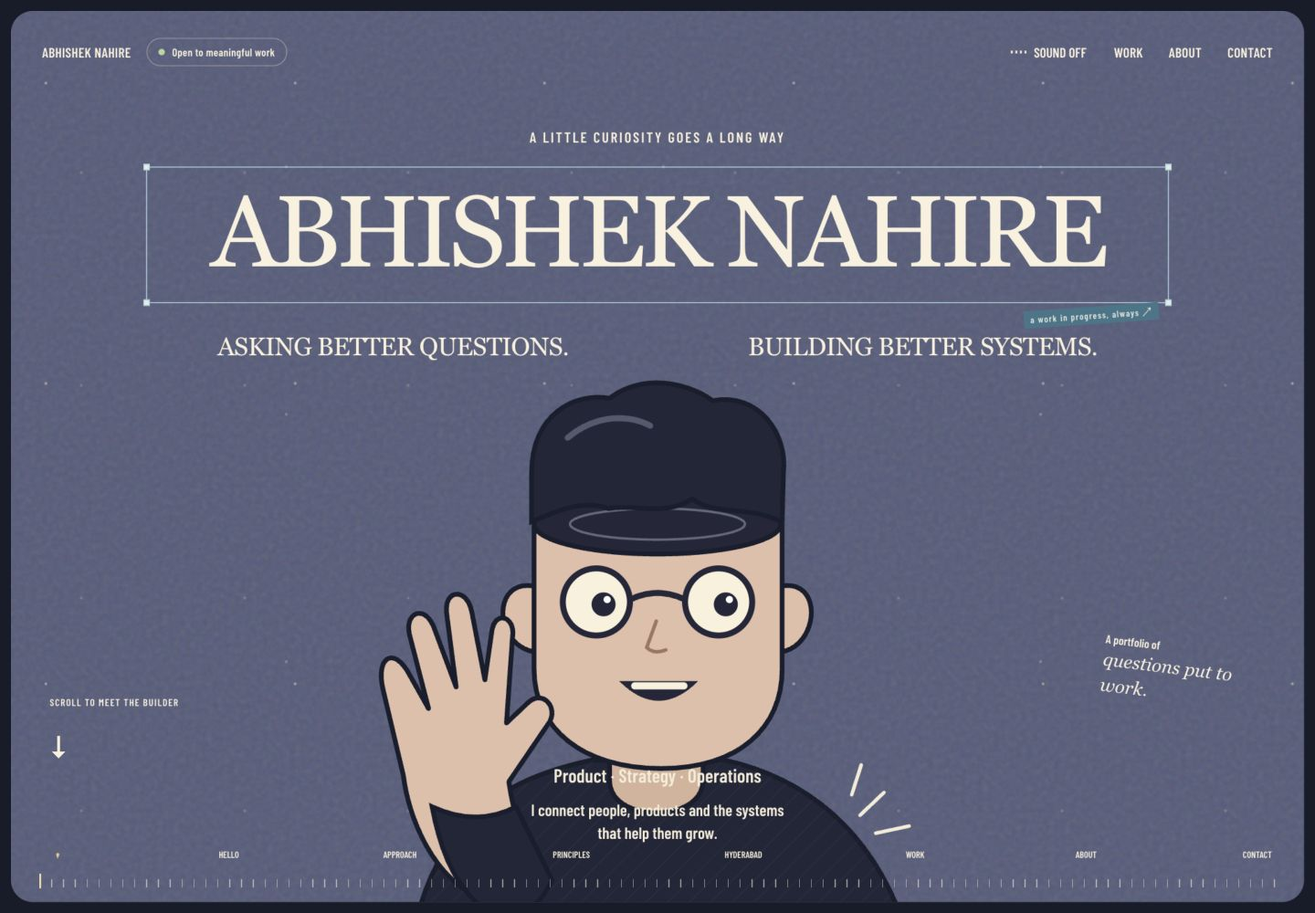
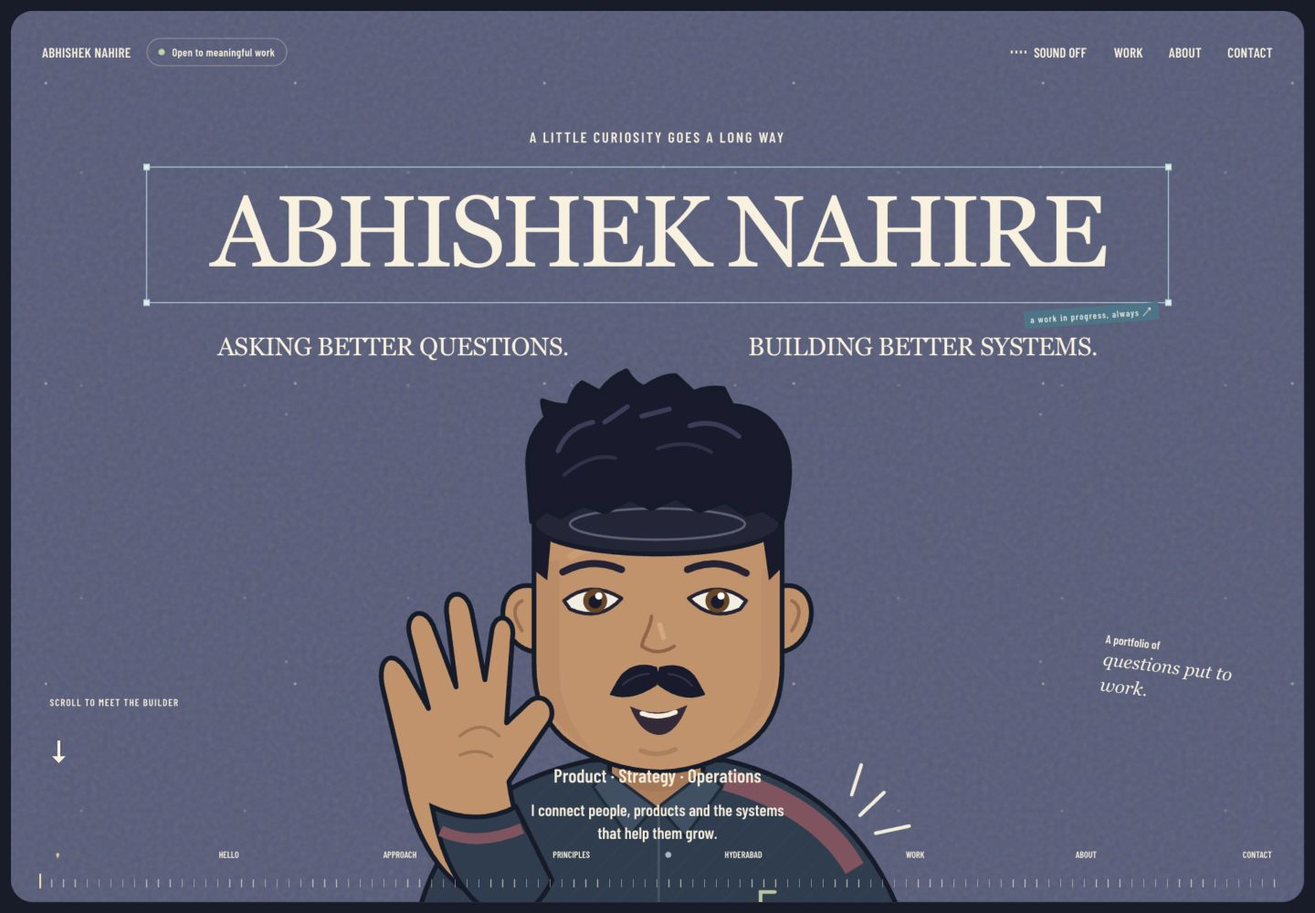
Update Site source

diff --git a/dist/index.html b/dist/index.html
@@ -1,9 +1,103 @@
 <!doctype html><html lang="en"><head><meta charset="utf-8"><meta name="viewport" content="width=device-width, initial-scale=1"><meta name="theme-color" content="#f6f5f0"><title>Abhishek Nahire — Product, Strategy & Operations</title><meta name="description" content="Turning good questions into meaningful outcomes. Explore Abhishek Nahire’s work in healthcare AI, product discovery and business operations."><link rel="canonical" href="https://abhishek-nahire-portfolio.candydrum1024.chatgpt.site/"><meta property="og:type" content="website"><meta property="og:title" content="Abhishek Nahire — Product, Strategy & Operations"><meta property="og:description" content="Turning good questions into meaningful outcomes. Explore Abhishek Nahire’s work in healthcare AI, product discovery and business operations."><meta property="og:url" content="https://abhishek-nahire-portfolio.candydrum1024.chatgpt.site/"><meta property="og:image" content="https://abhishek-nahire-portfolio.candydrum1024.chatgpt.site/assets/social.jpg"><meta name="twitter:card" content="summary_large_image"><link rel="icon" href="/assets/favicon.svg" type="image/svg+xml"><link rel="preload" href="/assets/dm-sans.woff2" as="font" type="font/woff2" crossorigin><link rel="preload" href="/assets/condensed.woff2" as="font" type="font/woff2" crossorigin><link rel="stylesheet" href="/assets/styles.css"><link rel="stylesheet" href="/assets/journey.css"><noscript><style>.reveal{opacity:1;transform:none}</style></noscript><script type="application/ld+json">{"@context":"https://schema.org","@type":"Person","name":"Abhishek Nahire","url":"https://abhishek-nahire-portfolio.candydrum1024.chatgpt.site","email":"mailto:abhisheknahire89@gmail.com","sameAs":["https://www.linkedin.com/in/abhishekaivana"],"alumniOf":{"@type":"CollegeOrUniversity","name":"IIT Hyderabad"},"knowsAbout":["Product discovery","Healthcare AI","Business operations"]}</script></head><body class="journey-page"><div class="journey-backdrop" aria-hidden="true"><div class="star-field"></div><div class="grain"></div></div><a class="skip-link" href="#work">Skip to selected work</a><header class="journey-header"><a class="journey-brand" href="#intro">ABHISHEK NAHIRE</a><span class="journey-status"><i></i> Open to meaningful work</span><div class="journey-controls"><button class="sound-toggle" aria-pressed="false" aria-label="Sound: turn ambient audio on"><span class="sound-bars" aria-hidden="true"><i></i><i></i><i></i><i></i></span><span class="sound-label">SOUND OFF</span></button><nav aria-label="Main navigation"><a href="#work">WORK</a><a href="#about">ABOUT</a><a href="#contact">CONTACT</a></nav></div></header><main id="main" class="journey-main">
-<section class="chapter intro-chapter" id="intro" data-color="#555b7b" data-ink="#faf1dd" data-length="1.8" aria-labelledby="intro-title"><div class="scene intro-scene"><div class="name-lockup"><span class="hand-label">A LITTLE CURIOSITY GOES A LONG WAY</span><div class="name-frame"><span class="frame-corner c1"></span><span class="frame-corner c2"></span><span class="frame-corner c3"></span><span class="frame-corner c4"></span><h1 id="intro-title">ABHISHEK <em>NAHIRE</em></h1><span class="frame-caption">a work in progress, always ↗</span></div><div class="hero-descriptors"><span>ASKING BETTER QUESTIONS.</span><span>BUILDING BETTER SYSTEMS.</span></div></div><div class="avatar-stage"><div class="idea idea-chart"><svg viewBox="0 0 80 80"><path d="M15 65H65M20 56V39H30V56M36 56V28H46V56M52 56V15H62V56" fill="none" stroke="currentColor" stroke-width="5" stroke-linejoin="round"/></svg></div><div class="idea idea-compass">✳</div><div class="idea idea-note"><span>?</span></div><div class="idea idea-leaf"><svg viewBox="0 0 90 60"><path d="M8 49C10 8 53 3 81 9C76 43 38 54 8 49Z" fill="#b5cb89" stroke="#232638" stroke-width="3"/><path d="M8 49L71 16" stroke="#232638" stroke-width="3"/></svg></div><svg class="builder-avatar" viewBox="0 0 640 650" fill="none" xmlns="http://www.w3.org/2000/svg" aria-hidden="true"><defs><pattern id="shirt-open" width="18" height="18" patternUnits="userSpaceOnUse"><path d="M0 18L18 0" stroke="#fff" stroke-opacity=".035"/></pattern></defs><path d="M111 650C116 494 207 466 265 453H376C462 472 523 536 540 650" fill="#222638" stroke="#191d2d" stroke-width="4"/><path d="M111 650C116 494 207 466 265 453H376C462 472 523 536 540 650" fill="url(#shirt-open)"/><path d="M280 434V470C280 506 358 506 358 470V434" fill="#d6b39b" stroke="#191d2d" stroke-width="4"/><path d="M222 309C180 296 182 360 220 363M418 309C460 296 456 360 421 363" fill="#e2bfa8" stroke="#191d2d" stroke-width="4"/><path d="M217 254H424V377C424 426 388 460 323 460C258 460 217 427 217 377Z" fill="#e2bfa8" stroke="#191d2d" stroke-width="4"/><ellipse cx="320" cy="256" rx="103" ry="25" fill="#252638" stroke="#191d2d" stroke-width="4"/><ellipse cx="320" cy="256" rx="73" ry="13" stroke="#636779" stroke-width="2"/><g class="head-lid"><path d="M215 254V213C215 165 250 146 280 151C309 129 347 139 366 153C404 146 429 180 425 214L424 254C393 240 367 249 349 235C326 250 301 239 279 243C257 235 237 245 215 254Z" fill="#222638" stroke="#191d2d" stroke-width="4"/><path d="M245 184C271 162 300 166 314 174" stroke="#53596e" stroke-width="5" stroke-linecap="round"/></g><g class="avatar-eyes"><circle cx="269" cy="321" r="28" fill="#faf1dc" stroke="#252638" stroke-width="5"/><circle cx="371" cy="321" r="28" fill="#faf1dc" stroke="#252638" stroke-width="5"/><path d="M297 319Q320 308 343 319" stroke="#252638" stroke-width="5"/><circle cx="275" cy="323" r="10" fill="#252638"/><circle cx="377" cy="323" r="10" fill="#252638"/><circle cx="278" cy="319" r="3" fill="white"/><circle cx="380" cy="319" r="3" fill="white"/></g><path d="M319 337L311 359Q317 365 327 361" stroke="#9f7565" stroke-width="3" stroke-linecap="round"/><path d="M288 387Q321 420 354 387Z" fill="#252638"/><path d="M301 391H342" stroke="#faf1dc" stroke-width="6" stroke-linecap="round"/><path d="M177 570C133 555 112 500 108 466L91 394C85 369 98 358 111 378L129 410L113 348C109 330 125 323 133 341L152 392L144 330C142 310 161 309 165 329L176 386L182 344C185 328 202 333 199 351L194 422L212 405C225 393 239 411 228 424L196 471C202 513 215 537 228 551" fill="#e2bfa8" stroke="#191d2d" stroke-width="4" stroke-linejoin="round"/><path d="M132 492Q169 509 202 492L232 553Q214 593 177 578C155 563 140 535 132 492Z" fill="#222638" stroke="#191d2d" stroke-width="4"/><path d="M489 499L509 480M502 514L530 508M482 482L490 457" stroke="#f4ecd9" stroke-width="3" stroke-linecap="round"/><text x="325" y="564" text-anchor="middle" fill="#b8c7d0" font-family="Arial,sans-serif" font-size="10" letter-spacing="3">ALWAYS ASKING WHY.</text></svg></div><div class="intro-description"><span>Product · Strategy · Operations</span><p>I connect people, products and the systems<br>that help them grow.</p></div><a href="#hello" class="scroll-invite">SCROLL TO MEET THE BUILDER <span>↓</span></a><div class="margin-note">A portfolio of<br><em>questions put to work.</em></div></div></section>
+<section class="chapter intro-chapter" id="intro" data-color="#555b7b" data-ink="#faf1dd" data-length="1.8" aria-labelledby="intro-title"><div class="scene intro-scene"><div class="name-lockup"><span class="hand-label">A LITTLE CURIOSITY GOES A LONG WAY</span><div class="name-frame"><span class="frame-corner c1"></span><span class="frame-corner c2"></span><span class="frame-corner c3"></span><span class="frame-corner c4"></span><h1 id="intro-title">ABHISHEK <em>NAHIRE</em></h1><span class="frame-caption">a work in progress, always ↗</span></div><div class="hero-descriptors"><span>ASKING BETTER QUESTIONS.</span><span>BUILDING BETTER SYSTEMS.</span></div></div><div class="avatar-stage"><div class="idea idea-chart"><svg viewBox="0 0 80 80"><path d="M15 65H65M20 56V39H30V56M36 56V28H46V56M52 56V15H62V56" fill="none" stroke="currentColor" stroke-width="5" stroke-linejoin="round"/></svg></div><div class="idea idea-compass">✳</div><div class="idea idea-note"><span>?</span></div><div class="idea idea-leaf"><svg viewBox="0 0 90 60"><path d="M8 49C10 8 53 3 81 9C76 43 38 54 8 49Z" fill="#b5cb89" stroke="#232638" stroke-width="3"/><path d="M8 49L71 16" stroke="#232638" stroke-width="3"/></svg></div><svg class="builder-avatar" viewBox="0 0 640 650" aria-hidden="true" fill="none" xmlns="http://www.w3.org/2000/svg"><defs><pattern id="shirt-open" width="22" height="22" patternUnits="userSpaceOnUse"><path d="M0 22L22 0" stroke="#d0dbe1" stroke-opacity=".025" stroke-width="1"/></pattern></defs>
+<!-- Tailored slate shirt, with muted burgundy shoulder accents. -->
+<path d="M111 650C116 494 207 466 265 453H376C462 472 523 536 540 650" fill="#2c3e50" stroke="#151b2b" stroke-width="4"/>
+<path d="M111 650C116 494 207 466 265 453H376C462 472 523 536 540 650" fill="url(#shirt-open)"/>
+<path d="M381 461Q461 484 492 539L477 548Q449 499 374 478Z" fill="#86525e"/>
+<path d="M280 434V470C280 506 358 506 358 470V434" fill="#b57d56" stroke="#151b2b" stroke-width="4"/>
+<path d="M286 455Q321 478 351 453V471Q322 487 286 472Z" fill="#9d684a" opacity=".35"/>
+<!-- Ears and softly squared face. -->
+<path d="M222 309C180 296 182 360 220 363M418 309C460 296 456 360 421 363" fill="#c99167" stroke="#151b2b" stroke-width="4"/>
+<path d="M207 320Q195 326 207 345M432 320Q444 326 432 345" stroke="#a36b4b" stroke-width="3" stroke-linecap="round"/>
+<path d="M217 254H424V372C424 412 409 438 375 450Q350 462 323 463Q288 462 262 448C232 434 217 410 217 373Z" fill="#c99167" stroke="#151b2b" stroke-width="4"/>
+<path d="M220 287V374Q220 421 266 446Q237 414 238 374V286Z" fill="#ad754f" opacity=".27"/>
+<path d="M407 295V371Q407 411 377 440Q419 420 421 371V286Z" fill="#a86f4e" opacity=".18"/>
+<path d="M248 283Q268 270 288 280" stroke="#dfaf85" stroke-width="6" stroke-linecap="round" opacity=".35"/>
+<!-- The opening seam sits behind the animated hair. -->
+<ellipse cx="320" cy="256" rx="103" ry="25" fill="#232638" stroke="#151b2b" stroke-width="4"/>
+<ellipse cx="320" cy="256" rx="73" ry="13" stroke="#5c6076" stroke-width="2"/>
+<path d="M218 259L231 268L228 303L219 296ZM422 260L408 267L413 303L422 294Z" fill="#1a1a2e"/>
+<g class="head-lid"><path d="M215 254L212 213Q209 184 227 167Q224 158 224 153Q236 158 246 157Q249 144 257 138L272 146Q280 134 294 128Q300 139 309 142Q323 132 335 132L350 146Q363 141 375 143L382 157Q417 159 428 193Q434 215 424 254L408 244L393 248L377 237L355 245L335 234L315 243L297 235L276 246L258 240L239 250L226 244Z" fill="#1a1a2e" stroke="#151b2b" stroke-width="4" stroke-linejoin="round"/>
+<path d="M237 195Q245 175 266 171M276 171L295 158M307 166L330 160M347 174Q369 167 388 183" stroke="#3d3d5c" stroke-width="4" stroke-linecap="round"/>
+<path d="M242 215Q265 196 285 201M320 193Q345 184 365 196" stroke="#303049" stroke-width="3" stroke-linecap="round"/></g>
+<!-- Brows and almond-shaped eyes. No glasses, matching the reference. -->
+<path d="M241 296Q265 283 290 294M345 294Q370 283 394 297" stroke="#252334" stroke-width="6" stroke-linecap="round"/>
+<g class="avatar-eyes"><path d="M242 320Q264 302 290 318Q272 338 247 327Z" fill="#f4eee2" stroke="#252334" stroke-width="3" stroke-linejoin="round"/>
+<path d="M346 318Q372 302 394 320L389 327Q365 338 346 318Z" fill="#f4eee2" stroke="#252334" stroke-width="3" stroke-linejoin="round"/>
+<circle cx="268" cy="320" r="10" fill="#6b4423"/><circle cx="370" cy="320" r="10" fill="#6b4423"/>
+<circle cx="268" cy="321" r="5.5" fill="#1a1a2e"/><circle cx="370" cy="321" r="5.5" fill="#1a1a2e"/>
+<circle cx="271" cy="316" r="3" fill="#fff"/><circle cx="373" cy="316" r="3" fill="#fff"/></g>
+<path d="M315 333C314 344 307 352 307 358Q320 367 334 358" stroke="#986445" stroke-width="3" stroke-linecap="round"/>
+<path d="M322 340L325 351" stroke="#e2b58b" stroke-width="4" stroke-linecap="round" opacity=".6"/>
+<!-- Distinctive groomed mustache, kept separate from the smile. -->
+<path d="M319 376C306 371 293 376 287 387L281 398Q298 404 319 390Q321 383 319 376Z" fill="#1a1a2e" stroke="#151b2b" stroke-width="1.5" stroke-linejoin="round"/>
+<path d="M322 376C336 372 347 376 353 387L359 398Q341 405 321 390Q320 383 322 376Z" fill="#1a1a2e" stroke="#151b2b" stroke-width="1.5" stroke-linejoin="round"/>
+<path d="M291 390Q302 381 313 381M329 381Q341 382 349 391" stroke="#414052" stroke-width="1.5" stroke-linecap="round" opacity=".7"/>
+<path d="M297 408Q320 419 345 407Q335 433 320 432Q305 430 297 408Z" fill="#352938"/>
+<path d="M307 414Q321 419 335 413" stroke="#f8eddd" stroke-width="4" stroke-linecap="round"/>
+<path d="M306 445Q320 451 335 444" stroke="#956748" stroke-width="4" stroke-linecap="round" opacity=".45"/>
+<!-- Open collar, small buttons and a discreet brand stitch. -->
+<path d="M279 463L318 492L296 517L266 475ZM359 463L321 492L343 517L374 475Z" fill="#3d5065" stroke="#1c2a3b" stroke-width="2.5" stroke-linejoin="round"/>
+<path d="M321 495V647" stroke="#57697a" stroke-width="2" opacity=".55"/>
+<circle cx="329" cy="532" r="2.5" fill="#a8b9c3"/><circle cx="329" cy="579" r="2.5" fill="#a8b9c3"/>
+<path d="M406 573V563H418" stroke="#b5c69e" stroke-width="3" stroke-linecap="round"/>
+<!-- Familiar welcoming wave, now matching the portrait skin tone. -->
+<path d="M177 570C133 555 112 500 108 466L91 394C85 369 98 358 111 378L129 410L113 348C109 330 125 323 133 341L152 392L144 330C142 310 161 309 165 329L176 386L182 344C185 328 202 333 199 351L194 422L212 405C225 393 239 411 228 424L196 471C202 513 215 537 228 551" fill="#c99167" stroke="#151b2b" stroke-width="4" stroke-linejoin="round"/>
+<path d="M155 433Q173 418 188 433M155 449Q170 442 182 450" stroke="#a77450" stroke-width="2.5" stroke-linecap="round"/>
+<path d="M132 492Q169 509 202 492L232 553Q214 593 177 578C155 563 140 535 132 492Z" fill="#2c3e50" stroke="#151b2b" stroke-width="4"/>
+<path d="M139 512Q169 526 207 510" stroke="#86525e" stroke-width="9"/>
+<path d="M489 499L509 480M502 514L530 508M482 482L490 457" stroke="#f4ecd9" stroke-width="3" stroke-linecap="round"/></svg></div><div class="intro-description"><span>Product · Strategy · Operations</span><p>I connect people, products and the systems<br>that help them grow.</p></div><a href="#hello" class="scroll-invite">SCROLL TO MEET THE BUILDER <span>↓</span></a><div class="margin-note">A portfolio of<br><em>questions put to work.</em></div></div></section>
 <section class="chapter" id="hello" data-color="#86596b" data-ink="#fff1dd" data-length="1.25" aria-labelledby="hello-title"><div class="scene hello-scene"><span class="spark sp1">✦</span><span class="spark sp2">✧</span><span class="spark sp3">✦</span><span class="eyebrow">ENGINEER’S CURIOSITY. FOUNDER’S OWNERSHIP.</span><h2 class="cutout-title" id="hello-title">HI, I’M<br><span>ABHISHEK.</span></h2><svg class="scribble" viewBox="0 0 350 40" aria-hidden="true"><path d="M5 22Q43-7 85 22T165 22T245 22T340 22" stroke="currentColor" stroke-width="6" fill="none" stroke-linecap="round"/></svg><p class="scene-copy">From mechanical engineering to techno-entrepreneurship at IIT Hyderabad.<br>Now turning open-ended problems into products, pilots and operating systems.</p><span class="hello-sticker">LESS GUESSING.<br><em>More asking.</em> ↗</span></div></section>
 <section class="chapter" id="systems" data-color="#426678" data-ink="#faf2df" data-length="2.15" aria-labelledby="systems-title"><div class="scene systems-scene"><span class="eyebrow">HOW I TURN AMBIGUITY INTO ACTION</span><h2 class="cutout-title" id="systems-title">CONNECT<br>THE DOTS.</h2><div class="system-map" aria-hidden="true"><svg class="system-lines" viewBox="0 0 800 340"><path d="M110 170H690M400 45V295M110 170Q250 15 400 170T690 170" fill="none" stroke="currentColor" stroke-width="2" stroke-dasharray="5 8"/></svg><div class="system-node node-listen"><span>01 / LISTEN</span><b>People first.</b><small>Conversations, needs & context</small></div><div class="system-node node-define"><span>02 / DEFINE</span><b>Find the real problem.</b><small>Requirements & priorities</small></div><div class="system-node node-test"><span>03 / TEST</span><b>Build. Measure. Learn.</b><small>Pilots & feedback loops</small></div><div class="system-center">✳</div></div><p class="scene-copy">Conversations become insights. Insights become decisions.<br>Decisions become something a team can actually build on.</p></div></section>
 <section class="chapter" id="beliefs" data-color="#30354e" data-ink="#f9eedb" data-length="3" aria-labelledby="beliefs-title"><div class="scene beliefs-scene"><h2 class="sr-only" id="beliefs-title">Principles behind the work</h2><div class="belief-panel" data-belief="0"><span class="eyebrow">01 / START WITH PEOPLE</span><h3>Good questions<br>change <em>the direction.</em></h3><p>100+ conversations with doctors, hospitals and students. 370+ medical-student validations. Research that informed two product pivots at Aivana.</p><span class="belief-doodle" aria-hidden="true">?</span></div><div class="belief-panel" data-belief="1"><span class="eyebrow">02 / TAKE IT INTO THE REAL WORLD</span><h3>A promising idea<br>deserves <em>a real test.</em></h3><p>An 11-week hospital pilot. 371 consultations. 91% documentation accuracy. Feedback loops that helped reduce documentation cycle time by 20%.</p><span class="belief-doodle chart-doodle" aria-hidden="true">↗</span></div><div class="belief-panel" data-belief="2"><span class="eyebrow">03 / MAKE THE NEXT STEP CLEAR</span><h3>Less noise.<br>More <em>forward motion.</em></h3><p>At Dyadic Health, CRM trackers, KPI dashboards and SOPs helped reduce founder review time by 80%. Useful systems make room for people to do their best work.</p><span class="belief-doodle" aria-hidden="true">✳</span></div><div class="belief-index" aria-label="Principle"><span class="belief-count">01</span><span class="belief-index-line"></span><span>03</span></div></div></section>
 <section class="chapter" id="hyderabad" data-color="#3d706e" data-ink="#fff1d8" data-length="1.5" aria-labelledby="city-title"><div class="scene city-scene"><span class="eyebrow">A PLACE TO THINK. A PLACE TO BUILD.</span><h2 class="cutout-title" id="city-title">BASED IN<br>HYDERABAD<span class="city-dot">.</span></h2><p class="scene-copy">Shaped by IIT Hyderabad. Drawn to healthcare, technology<br>and the people who turn a good idea into something useful.</p><div class="city-landscape" aria-hidden="true"><svg viewBox="0 0 1440 280" preserveAspectRatio="xMidYMax meet"><path d="M0 252Q160 170 310 231T610 222T910 230T1200 208T1440 230" stroke="#d3e1cb" stroke-opacity=".4" stroke-width="2" fill="none"/><path d="M0 265H1440" stroke="#e8e9d5" stroke-width="2"/><g class="city-building" stroke="#f1e8cc" stroke-width="3" fill="#3d706e"><path d="M580 265V135H860V265M610 135V95H830V135M635 95Q720 12 805 95M675 265V202Q720 149 765 202V265"/><path d="M573 265V68H594V265M846 265V68H867V265M564 68H603M837 68H876M573 54Q583 28 594 54M846 54Q856 28 867 54M630 135V190M810 135V190M650 220H666M774 220H790"/><path d="M567 68L570 56H598L601 68M840 68L843 56H871L874 68"/><circle cx="720" cy="113" r="12"/></g><g class="city-cricket" stroke="#f1e8cc" stroke-width="3" fill="none"><path d="M1100 265L1114 175L1132 178L1120 265Z" fill="#dcb482"/><path d="M1185 265V222M1198 265V222M1211 265V222M1182 221H1214"/><circle cx="1160" cy="247" r="8" fill="#d48370"/></g><g stroke="#f1e8cc" stroke-width="3" fill="none"><path d="M205 265V152M205 177Q166 139 140 160M205 177Q240 132 265 150M205 177Q206 127 191 116M205 177Q242 166 268 183M205 177Q178 171 158 185"/></g><g class="city-traveller"><path d="M350 247H464V210Q455 186 422 186H373Q352 186 350 210Z" fill="#dcb482" stroke="#222638" stroke-width="3"/><path d="M360 222H453V245H360Z" fill="#526449" stroke="#222638" stroke-width="3"/><path d="M374 196H399V218H367ZM410 196H433L446 218H410Z" fill="#b4c5c4" stroke="#222638" stroke-width="3"/><circle cx="376" cy="250" r="15" fill="#252638"/><circle cx="441" cy="250" r="15" fill="#252638"/><circle cx="376" cy="250" r="6" fill="#e8d6b8"/><circle cx="441" cy="250" r="6" fill="#e8d6b8"/></g></svg></div><span class="city-footnote">AND A LITTLE CRICKET, OFF THE CLOCK. ↗</span></div></section>
 <section class="chapter work-chapter" id="work" data-color="#596547" data-ink="#fff2db" data-length="4.7" aria-labelledby="work-title"><div class="scene work-scene"><div class="work-track"><div class="work-intro"><span class="eyebrow">THINKING, TESTING & MAKING THINGS HAPPEN</span><h2 class="cutout-title" id="work-title">SELECTED<br>WORK<span>↗</span></h2><p>Six stories from healthcare AI, product discovery and building the systems behind a growing team.</p><small>Original explanatory visuals.<br>Grounded in my résumé.</small><span class="gallery-invite">KEEP SCROLLING TO EXPLORE →</span></div><article class="journey-project"><div class="journey-project-top"><span>01 / Aivana Health Intelligence</span><span>Product</span></div><a class="journey-project-link" href="/work/clinical-documentation/" data-project="clinical-documentation"><div class="project-art sage" aria-hidden="true"><div class="mock-window"><div class="window-bar"><b class="mini-brand">aivana<span> / clinical workspace</span></b><span class="window-dots">•••</span></div><div class="clinical-layout"><div class="mock-sidebar"><span class="sidebar-symbol">✳</span><i>▦</i><i>▤</i><i>◷</i></div><div class="clinical-content"><div class="mock-breadcrumb">WORKSPACE / CONSULTATION</div><div class="mock-title">Care comes first.</div><div class="mock-sub">Let the documentation follow.</div><div class="note-grid"><div class="note-paper"><span class="tiny-label">CONSULTATION NOTE</span><div class="skeleton wide"></div><div class="skeleton"></div><div class="skeleton short"></div><span class="tiny-label note-label">ASSESSMENT & PLAN</span><div class="skeleton"></div><div class="skeleton wide"></div><div class="skeleton short"></div></div><div class="accuracy"><span class="tiny-label">PILOT ACCURACY</span><div class="accuracy-ring"><b>91<span>%</span></b></div><span class="status-pill">✓ Measured in pilot</span></div></div><div class="mock-bottom"><span class="live-dot"></span> More time for the conversation.<span>↗</span></div></div></div></div><div class="floating-note"><span>↗</span><div><b>20% less documentation time</b><small>Feedback. Iterate. Improve.</small></div></div><span class="project-open">EXPLORE THE STORY ↗</span></div><h3>Less paperwork. More patient time.</h3><p>An AI-assisted documentation pilot built around the realities of a hospital consultation.</p><span class="project-case-link">VIEW CASE STUDY ↗</span></a></article><article class="journey-project"><div class="journey-project-top"><span>02 / Aivana Health Intelligence</span><span>Product</span></div><a class="journey-project-link" href="/work/insurance-preauthorization/" data-project="insurance-preauthorization"><div class="project-art sand" aria-hidden="true"><div class="flow-paper"><span class="tiny-label">AIVANA / DECISION FLOW</span><h3>A clearer path<br>to preauthorization.</h3><div class="flow-row"><span class="flow-icon">▤</span><div><b>Medical necessity</b><small>Start with the clinical context</small></div><span>✓</span></div><div class="flow-line"></div><div class="flow-row"><span class="flow-icon">⌘</span><div><b>Coding rules</b><small>Connect the requirements</small></div><span>✓</span></div><div class="flow-line"></div><div class="flow-row dark"><span class="flow-icon">↗</span><div><b>Decision & next steps</b><small>Including denial and appeal paths</small></div><span>→</span></div></div><span class="project-open">EXPLORE THE STORY ↗</span></div><h3>Making complex decisions clearer.</h3><p>Exploring how AI can support the steps between a clinical request and an insurance decision.</p><span class="project-case-link">VIEW CASE STUDY ↗</span></a></article><article class="journey-project"><div class="journey-project-top"><span>03 / Dyadic Health</span><span>Operations</span></div><a class="journey-project-link" href="/work/founders-office/" data-project="founders-office"><div class="project-art blue" aria-hidden="true"><div class="dashboard"><div class="dash-head"><b>dyadic<span> / operations</span></b><span class="status-pill">● Shared visibility</span></div><div class="tiny-label">A LITTLE STRUCTURE. A LOT MORE CLARITY.</div><h3>The bigger picture.<br>The next right action.</h3><div class="dash-stats"><div><small>Review time</small><b>−80% <em>↘</em></b></div><div><small>Partners onboarded</small><b>11 <em>↗</em></b></div></div><div class="bar-chart"><i style="--h:40%"></i><i style="--h:60%"></i><i style="--h:48%"></i><i style="--h:76%"></i><i style="--h:65%"></i><i style="--h:88%"></i><i style="--h:100%"></i></div><small class="diagram-caption">Illustrative reporting view</small></div><span class="project-open">EXPLORE THE STORY ↗</span></div><h3>Giving a growing team its operating rhythm.</h3><p>CRM trackers, KPI dashboards and SOPs that made customer and partner journeys easier to follow.</p><span class="project-case-link">VIEW CASE STUDY ↗</span></a></article><article class="journey-project"><div class="journey-project-top"><span>04 / Aivana Health Intelligence</span><span>Research</span></div><a class="journey-project-link" href="/work/patient-simulation/" data-project="patient-simulation"><div class="project-art lilac" aria-hidden="true"><div class="research-art"><span class="tiny-label">DISCOVERY IS A CONVERSATION</span><div class="research-bubble first"><span>01 / LISTEN</span><b>What do learners<br>actually need?</b></div><div class="research-bubble second"><span>02 / VALIDATE</span><b>370+ student<br>validations.</b></div><div class="research-sticker">Keep asking.<br><em>Keep learning.</em><span>↗</span></div></div><span class="project-open">EXPLORE THE STORY ↗</span></div><h3>Listening before building the next thing.</h3><p>Using conversations and validation to shape an AI patient-simulation platform.</p><span class="project-case-link">VIEW CASE STUDY ↗</span></a></article><article class="journey-project"><div class="journey-project-top"><span>05 / Zangoh</span><span>Product</span></div><a class="journey-project-link" href="/work/ai-agent-workflows/" data-project="ai-agent-workflows"><div class="project-art mint" aria-hidden="true"><div class="agent-art"><span class="tiny-label">ZANGOH / WORKFLOW EXPLORATION</span><h3>Find the friction.<br><em>Then the opportunity.</em></h3><div class="agent-orbit"><div class="orbit-center">✳<small>AI agents</small></div><span class="orbit-node n1">Banking</span><span class="orbit-node n2">E-commerce</span><span class="orbit-node n3">Operations</span></div><div class="agent-foot">Workflow mapping <span>→</span> Product demos</div></div><span class="project-open">EXPLORE THE STORY ↗</span></div><h3>Finding where AI can do useful work.</h3><p>Mapping everyday business workflows into concrete opportunities for AI agents.</p><span class="project-case-link">VIEW CASE STUDY ↗</span></a></article><article class="journey-project"><div class="journey-project-top"><span>06 / GnixarAcademy</span><span>Operations</span></div><a class="journey-project-link" href="/work/institutional-partnerships/" data-project="institutional-partnerships"><div class="project-art peach" aria-hidden="true"><div class="pipeline-art"><span class="tiny-label">GNIXARACADEMY / FROM ZERO TO ONE</span><h3>Good partnerships<br>start with focus.</h3><div class="pipeline-number">30<span>+</span></div><p>institutions. One structured approach.</p><div class="pipeline-steps"><span>Prioritise</span><i>→</i><span>Connect</span><i>→</i><span>Track</span></div></div><span class="project-open">EXPLORE THE STORY ↗</span></div><h3>Building a pipeline from a blank page.</h3><p>Creating an early-stage venture’s first structured approach to institutional partnerships.</p><span class="project-case-link">VIEW CASE STUDY ↗</span></a></article><div class="gallery-outro"><span class="eyebrow">THE THREAD THROUGH ALL OF IT</span><p>Understand.<br>Connect.<br><em>Build forward.</em></p><a href="#contact">Let’s talk about what’s next ↗</a></div></div><div class="gallery-counter"><span class="gallery-current">01</span><span>— 06</span><span class="gallery-hint">SCROLL ↓ TO MOVE →</span></div></div></section>
 <section class="chapter" id="about" data-color="#88515a" data-ink="#fff1df" data-length="1.6" aria-labelledby="about-title"><div class="scene about-scene"><span class="eyebrow">A LITTLE MORE THAN A JOB TITLE</span><h2 id="about-title">An engineer’s mind.<br>A founder’s instinct.<br><em>An operator’s follow-through.</em></h2><p class="about-scene-copy">I’m most at home between a messy question and a useful next step. My work connects user research, product requirements, pilots, partnerships and day-to-day execution.</p><div class="journey-facts"><div><span>THE FOUNDATION</span><p>IIT Hyderabad<br>M.Tech, Techno-Entrepreneurship</p></div><div><span>THE WORK</span><p>Aivana · Dyadic Health<br>GnixarAcademy · Zangoh</p></div><div><span>BEYOND THE DESK</span><p>Led the IITH Cricket Club<br>100+ players. Five teams.</p></div></div><div class="journey-tools"><span>Figma</span><span>Jira</span><span>Notion</span><span>Excel</span><span>Google Sheets</span><span>Mixpanel</span><span>ChatGPT</span><span>Claude</span></div><div class="about-links"><a href="/about/">THE FULL STORY ↗</a><a href="/assets/abhishek-nahire-resume.pdf" target="_blank" rel="noopener">READ MY RÉSUMÉ ↗</a></div><div class="paper-plane" aria-hidden="true">➤<svg viewBox="0 0 200 100"><path d="M0 90Q75 15 100 65T200 10" stroke="currentColor" stroke-width="2" stroke-dasharray="6 7" fill="none"/></svg></div></div></section>
-<section class="chapter contact-chapter" id="contact" data-color="#555b7b" data-ink="#faf1dd" data-length="1.4" aria-labelledby="contact-title"><div class="scene closing-scene"><div class="closing-rings" aria-hidden="true"></div><div class="closing-title"><span class="hand-label">GOOD THINGS START WITH A CONVERSATION</span><h2 id="contact-title">LET’S BUILD<br><em>WHAT’S NEXT.</em></h2></div><div class="avatar-stage closing-avatar"><div class="idea idea-chart"><svg viewBox="0 0 80 80"><path d="M15 65H65M20 56V39H30V56M36 56V28H46V56M52 56V15H62V56" fill="none" stroke="currentColor" stroke-width="5" stroke-linejoin="round"/></svg></div><div class="idea idea-compass">✳</div><div class="idea idea-note"><span>?</span></div><div class="idea idea-leaf"><svg viewBox="0 0 90 60"><path d="M8 49C10 8 53 3 81 9C76 43 38 54 8 49Z" fill="#b5cb89" stroke="#232638" stroke-width="3"/><path d="M8 49L71 16" stroke="#232638" stroke-width="3"/></svg></div><svg class="builder-avatar" viewBox="0 0 640 650" fill="none" xmlns="http://www.w3.org/2000/svg" aria-hidden="true"><defs><pattern id="shirt-close" width="18" height="18" patternUnits="userSpaceOnUse"><path d="M0 18L18 0" stroke="#fff" stroke-opacity=".035"/></pattern></defs><path d="M111 650C116 494 207 466 265 453H376C462 472 523 536 540 650" fill="#222638" stroke="#191d2d" stroke-width="4"/><path d="M111 650C116 494 207 466 265 453H376C462 472 523 536 540 650" fill="url(#shirt-close)"/><path d="M280 434V470C280 506 358 506 358 470V434" fill="#d6b39b" stroke="#191d2d" stroke-width="4"/><path d="M222 309C180 296 182 360 220 363M418 309C460 296 456 360 421 363" fill="#e2bfa8" stroke="#191d2d" stroke-width="4"/><path d="M217 254H424V377C424 426 388 460 323 460C258 460 217 427 217 377Z" fill="#e2bfa8" stroke="#191d2d" stroke-width="4"/><ellipse cx="320" cy="256" rx="103" ry="25" fill="#252638" stroke="#191d2d" stroke-width="4"/><ellipse cx="320" cy="256" rx="73" ry="13" stroke="#636779" stroke-width="2"/><g class="head-lid"><path d="M215 254V213C215 165 250 146 280 151C309 129 347 139 366 153C404 146 429 180 425 214L424 254C393 240 367 249 349 235C326 250 301 239 279 243C257 235 237 245 215 254Z" fill="#222638" stroke="#191d2d" stroke-width="4"/><path d="M245 184C271 162 300 166 314 174" stroke="#53596e" stroke-width="5" stroke-linecap="round"/></g><g class="avatar-eyes"><circle cx="269" cy="321" r="28" fill="#faf1dc" stroke="#252638" stroke-width="5"/><circle cx="371" cy="321" r="28" fill="#faf1dc" stroke="#252638" stroke-width="5"/><path d="M297 319Q320 308 343 319" stroke="#252638" stroke-width="5"/><circle cx="275" cy="323" r="10" fill="#252638"/><circle cx="377" cy="323" r="10" fill="#252638"/><circle cx="278" cy="319" r="3" fill="white"/><circle cx="380" cy="319" r="3" fill="white"/></g><path d="M319 337L311 359Q317 365 327 361" stroke="#9f7565" stroke-width="3" stroke-linecap="round"/><path d="M288 387Q321 420 354 387Z" fill="#252638"/><path d="M301 391H342" stroke="#faf1dc" stroke-width="6" stroke-linecap="round"/><path d="M177 570C133 555 112 500 108 466L91 394C85 369 98 358 111 378L129 410L113 348C109 330 125 323 133 341L152 392L144 330C142 310 161 309 165 329L176 386L182 344C185 328 202 333 199 351L194 422L212 405C225 393 239 411 228 424L196 471C202 513 215 537 228 551" fill="#e2bfa8" stroke="#191d2d" stroke-width="4" stroke-linejoin="round"/><path d="M132 492Q169 509 202 492L232 553Q214 593 177 578C155 563 140 535 132 492Z" fill="#222638" stroke="#191d2d" stroke-width="4"/><path d="M489 499L509 480M502 514L530 508M482 482L490 457" stroke="#f4ecd9" stroke-width="3" stroke-linecap="round"/><text x="325" y="564" text-anchor="middle" fill="#b8c7d0" font-family="Arial,sans-serif" font-size="10" letter-spacing="3">ALWAYS ASKING WHY.</text></svg></div><div class="contact-on-shirt"><a href="mailto:abhisheknahire89@gmail.com">abhisheknahire89@gmail.com</a><button class="journey-copy" aria-label="Copy email address">COPY ↗</button><div><a href="https://www.linkedin.com/in/abhishekaivana" target="_blank" rel="noopener">LINKEDIN ↗</a><a href="/assets/abhishek-nahire-resume.pdf" target="_blank" rel="noopener">RÉSUMÉ ↓</a></div></div><span class="closing-sticker">A LITTLE CURIOSITY.<br><em>A lot of possibility.</em></span><span class="journey-copyright">© 2026 ABHISHEK NAHIRE</span><a class="replay" href="#intro">TAKE IT FROM THE TOP ↑</a></div></section></main><nav class="chapter-ruler" aria-label="Story chapters"><div class="ruler-ticks" aria-hidden="true"></div><span class="ruler-marker" aria-hidden="true"></span><a href="#intro" aria-label="Opening scene">↟</a><a href="#hello">Hello</a><a href="#systems">Approach</a><a href="#beliefs">Principles</a><a href="#hyderabad">Hyderabad</a><a href="#work">Work</a><a href="#about">About</a><a href="#contact">Contact</a></nav><dialog class="project-dialog" aria-labelledby="dialog-title"><div class="dialog-toolbar"><button class="close-project">← BACK TO WORK</button><h2 id="dialog-title">Case study</h2><div><button class="prev-project" aria-label="Previous project">←</button><button class="next-project-button" aria-label="Next project">→</button></div></div><iframe class="project-frame" title="Project case study"></iframe></dialog><div class="journey-toast" role="status" aria-live="polite"></div><script type="application/json" id="project-index">[{"slug":"clinical-documentation","title":"Clinical documentation"},{"slug":"insurance-preauthorization","title":"Insurance preauthorization"},{"slug":"founders-office","title":"The operating system"},{"slug":"patient-simulation","title":"From insight to direction"},{"slug":"ai-agent-workflows","title":"From process to possibility"},{"slug":"institutional-partnerships","title":"The first partner pipeline"}]</script><script src="/assets/journey.js" defer></script></body></html>
+<section class="chapter contact-chapter" id="contact" data-color="#555b7b" data-ink="#faf1dd" data-length="1.4" aria-labelledby="contact-title"><div class="scene closing-scene"><div class="closing-rings" aria-hidden="true"></div><div class="closing-title"><span class="hand-label">GOOD THINGS START WITH A CONVERSATION</span><h2 id="contact-title">LET’S BUILD<br><em>WHAT’S NEXT.</em></h2></div><div class="avatar-stage closing-avatar"><div class="idea idea-chart"><svg viewBox="0 0 80 80"><path d="M15 65H65M20 56V39H30V56M36 56V28H46V56M52 56V15H62V56" fill="none" stroke="currentColor" stroke-width="5" stroke-linejoin="round"/></svg></div><div class="idea idea-compass">✳</div><div class="idea idea-note"><span>?</span></div><div class="idea idea-leaf"><svg viewBox="0 0 90 60"><path d="M8 49C10 8 53 3 81 9C76 43 38 54 8 49Z" fill="#b5cb89" stroke="#232638" stroke-width="3"/><path d="M8 49L71 16" stroke="#232638" stroke-width="3"/></svg></div><svg class="builder-avatar" viewBox="0 0 640 650" aria-hidden="true" fill="none" xmlns="http://www.w3.org/2000/svg"><defs><pattern id="shirt-close" width="22" height="22" patternUnits="userSpaceOnUse"><path d="M0 22L22 0" stroke="#d0dbe1" stroke-opacity=".025" stroke-width="1"/></pattern></defs>
+<!-- Tailored slate shirt, with muted burgundy shoulder accents. -->
+<path d="M111 650C116 494 207 466 265 453H376C462 472 523 536 540 650" fill="#2c3e50" stroke="#151b2b" stroke-width="4"/>
+<path d="M111 650C116 494 207 466 265 453H376C462 472 523 536 540 650" fill="url(#shirt-close)"/>
+<path d="M381 461Q461 484 492 539L477 548Q449 499 374 478Z" fill="#86525e"/>
+<path d="M280 434V470C280 506 358 506 358 470V434" fill="#b57d56" stroke="#151b2b" stroke-width="4"/>
+<path d="M286 455Q321 478 351 453V471Q322 487 286 472Z" fill="#9d684a" opacity=".35"/>
+<!-- Ears and softly squared face. -->
+<path d="M222 309C180 296 182 360 220 363M418 309C460 296 456 360 421 363" fill="#c99167" stroke="#151b2b" stroke-width="4"/>
+<path d="M207 320Q195 326 207 345M432 320Q444 326 432 345" stroke="#a36b4b" stroke-width="3" stroke-linecap="round"/>
+<path d="M217 254H424V372C424 412 409 438 375 450Q350 462 323 463Q288 462 262 448C232 434 217 410 217 373Z" fill="#c99167" stroke="#151b2b" stroke-width="4"/>
+<path d="M220 287V374Q220 421 266 446Q237 414 238 374V286Z" fill="#ad754f" opacity=".27"/>
+<path d="M407 295V371Q407 411 377 440Q419 420 421 371V286Z" fill="#a86f4e" opacity=".18"/>
+<path d="M248 283Q268 270 288 280" stroke="#dfaf85" stroke-width="6" stroke-linecap="round" opacity=".35"/>
+<!-- The opening seam sits behind the animated hair. -->
+<ellipse cx="320" cy="256" rx="103" ry="25" fill="#232638" stroke="#151b2b" stroke-width="4"/>
+<ellipse cx="320" cy="256" rx="73" ry="13" stroke="#5c6076" stroke-width="2"/>
+<path d="M218 259L231 268L228 303L219 296ZM422 260L408 267L413 303L422 294Z" fill="#1a1a2e"/>
+<g class="head-lid"><path d="M215 254L212 213Q209 184 227 167Q224 158 224 153Q236 158 246 157Q249 144 257 138L272 146Q280 134 294 128Q300 139 309 142Q323 132 335 132L350 146Q363 141 375 143L382 157Q417 159 428 193Q434 215 424 254L408 244L393 248L377 237L355 245L335 234L315 243L297 235L276 246L258 240L239 250L226 244Z" fill="#1a1a2e" stroke="#151b2b" stroke-width="4" stroke-linejoin="round"/>
+<path d="M237 195Q245 175 266 171M276 171L295 158M307 166L330 160M347 174Q369 167 388 183" stroke="#3d3d5c" stroke-width="4" stroke-linecap="round"/>
+<path d="M242 215Q265 196 285 201M320 193Q345 184 365 196" stroke="#303049" stroke-width="3" stroke-linecap="round"/></g>
+<!-- Brows and almond-shaped eyes. No glasses, matching the reference. -->
+<path d="M241 296Q265 283 290 294M345 294Q370 283 394 297" stroke="#252334" stroke-width="6" stroke-linecap="round"/>
+<g class="avatar-eyes"><path d="M242 320Q264 302 290 318Q272 338 247 327Z" fill="#f4eee2" stroke="#252334" stroke-width="3" stroke-linejoin="round"/>
+<path d="M346 318Q372 302 394 320L389 327Q365 338 346 318Z" fill="#f4eee2" stroke="#252334" stroke-width="3" stroke-linejoin="round"/>
+<circle cx="268" cy="320" r="10" fill="#6b4423"/><circle cx="370" cy="320" r="10" fill="#6b4423"/>
+<circle cx="268" cy="321" r="5.5" fill="#1a1a2e"/><circle cx="370" cy="321" r="5.5" fill="#1a1a2e"/>
+<circle cx="271" cy="316" r="3" fill="#fff"/><circle cx="373" cy="316" r="3" fill="#fff"/></g>
+<path d="M315 333C314 344 307 352 307 358Q320 367 334 358" stroke="#986445" stroke-width="3" stroke-linecap="round"/>
+<path d="M322 340L325 351" stroke="#e2b58b" stroke-width="4" stroke-linecap="round" opacity=".6"/>
+<!-- Distinctive groomed mustache, kept separate from the smile. -->
+<path d="M319 376C306 371 293 376 287 387L281 398Q298 404 319 390Q321 383 319 376Z" fill="#1a1a2e" stroke="#151b2b" stroke-width="1.5" stroke-linejoin="round"/>
+<path d="M322 376C336 372 347 376 353 387L359 398Q341 405 321 390Q320 383 322 376Z" fill="#1a1a2e" stroke="#151b2b" stroke-width="1.5" stroke-linejoin="round"/>
+<path d="M291 390Q302 381 313 381M329 381Q341 382 349 391" stroke="#414052" stroke-width="1.5" stroke-linecap="round" opacity=".7"/>
+<path d="M297 408Q320 419 345 407Q335 433 320 432Q305 430 297 408Z" fill="#352938"/>
+<path d="M307 414Q321 419 335 413" stroke="#f8eddd" stroke-width="4" stroke-linecap="round"/>
+<path d="M306 445Q320 451 335 444" stroke="#956748" stroke-width="4" stroke-linecap="round" opacity=".45"/>
+<!-- Open collar, small buttons and a discreet brand stitch. -->
+<path d="M279 463L318 492L296 517L266 475ZM359 463L321 492L343 517L374 475Z" fill="#3d5065" stroke="#1c2a3b" stroke-width="2.5" stroke-linejoin="round"/>
+<path d="M321 495V647" stroke="#57697a" stroke-width="2" opacity=".55"/>
+<circle cx="329" cy="532" r="2.5" fill="#a8b9c3"/><circle cx="329" cy="579" r="2.5" fill="#a8b9c3"/>
+<path d="M406 573V563H418" stroke="#b5c69e" stroke-width="3" stroke-linecap="round"/>
+<!-- Familiar welcoming wave, now matching the portrait skin tone. -->
+<path d="M177 570C133 555 112 500 108 466L91 394C85 369 98 358 111 378L129 410L113 348C109 330 125 323 133 341L152 392L144 330C142 310 161 309 165 329L176 386L182 344C185 328 202 333 199 351L194 422L212 405C225 393 239 411 228 424L196 471C202 513 215 537 228 551" fill="#c99167" stroke="#151b2b" stroke-width="4" stroke-linejoin="round"/>
+<path d="M155 433Q173 418 188 433M155 449Q170 442 182 450" stroke="#a77450" stroke-width="2.5" stroke-linecap="round"/>
+<path d="M132 492Q169 509 202 492L232 553Q214 593 177 578C155 563 140 535 132 492Z" fill="#2c3e50" stroke="#151b2b" stroke-width="4"/>
+<path d="M139 512Q169 526 207 510" stroke="#86525e" stroke-width="9"/>
+<path d="M489 499L509 480M502 514L530 508M482 482L490 457" stroke="#f4ecd9" stroke-width="3" stroke-linecap="round"/></svg></div><div class="contact-on-shirt"><a href="mailto:abhisheknahire89@gmail.com">abhisheknahire89@gmail.com</a><button class="journey-copy" aria-label="Copy email address">COPY ↗</button><div><a href="https://www.linkedin.com/in/abhishekaivana" target="_blank" rel="noopener">LINKEDIN ↗</a><a href="/assets/abhishek-nahire-resume.pdf" target="_blank" rel="noopener">RÉSUMÉ ↓</a></div></div><span class="closing-sticker">A LITTLE CURIOSITY.<br><em>A lot of possibility.</em></span><span class="journey-copyright">© 2026 ABHISHEK NAHIRE</span><a class="replay" href="#intro">TAKE IT FROM THE TOP ↑</a></div></section></main><nav class="chapter-ruler" aria-label="Story chapters"><div class="ruler-ticks" aria-hidden="true"></div><span class="ruler-marker" aria-hidden="true"></span><a href="#intro" aria-label="Opening scene">↟</a><a href="#hello">Hello</a><a href="#systems">Approach</a><a href="#beliefs">Principles</a><a href="#hyderabad">Hyderabad</a><a href="#work">Work</a><a href="#about">About</a><a href="#contact">Contact</a></nav><dialog class="project-dialog" aria-labelledby="dialog-title"><div class="dialog-toolbar"><button class="close-project">← BACK TO WORK</button><h2 id="dialog-title">Case study</h2><div><button class="prev-project" aria-label="Previous project">←</button><button class="next-project-button" aria-label="Next project">→</button></div></div><iframe class="project-frame" title="Project case study"></iframe></dialog><div class="journey-toast" role="status" aria-live="polite"></div><script type="application/json" id="project-index">[{"slug":"clinical-documentation","title":"Clinical documentation"},{"slug":"insurance-preauthorization","title":"Insurance preauthorization"},{"slug":"founders-office","title":"The operating system"},{"slug":"patient-simulation","title":"From insight to direction"},{"slug":"ai-agent-workflows","title":"From process to possibility"},{"slug":"institutional-partnerships","title":"The first partner pipeline"}]</script><script src="/assets/journey.js" defer></script></body></html>

diff --git a/dist/assets/journey.css b/dist/assets/journey.css
@@ -23,3 +23,4 @@
 html:not(.journey-ready) .belief-panel{position:relative;opacity:1;visibility:visible;top:auto;left:auto;transform:none;margin:40px auto}html:not(.journey-ready) .beliefs-scene{display:block}html:not(.journey-ready) .work-track{transform:none;max-width:100%;overflow-x:auto}html:not(.journey-ready) .system-map{opacity:1}
 .closing-avatar .idea-note{top:25%;left:82%}.closing-avatar .idea-compass{top:38%;left:78%}.closing-avatar .idea-chart{top:17%;left:74%}.closing-avatar .idea-leaf{top:8%;left:84%}
 @media(max-width:767px){.closing-avatar .idea-note{top:25%;left:70%}.closing-avatar .idea-compass{top:38%;left:76%}.closing-avatar .idea-chart{top:38%;left:68%}.closing-avatar .idea-leaf{top:15%;left:75%}}
+@media(max-width:767px){.replay{top:84px}}

diff --git a/src/journey.css b/src/journey.css
@@ -23,3 +23,4 @@
 html:not(.journey-ready) .belief-panel{position:relative;opacity:1;visibility:visible;top:auto;left:auto;transform:none;margin:40px auto}html:not(.journey-ready) .beliefs-scene{display:block}html:not(.journey-ready) .work-track{transform:none;max-width:100%;overflow-x:auto}html:not(.journey-ready) .system-map{opacity:1}
 .closing-avatar .idea-note{top:25%;left:82%}.closing-avatar .idea-compass{top:38%;left:78%}.closing-avatar .idea-chart{top:17%;left:74%}.closing-avatar .idea-leaf{top:8%;left:84%}
 @media(max-width:767px){.closing-avatar .idea-note{top:25%;left:70%}.closing-avatar .idea-compass{top:38%;left:76%}.closing-avatar .idea-chart{top:38%;left:68%}.closing-avatar .idea-leaf{top:15%;left:75%}}
+@media(max-width:767px){.replay{top:84px}}

diff --git a/README.md b/README.md
@@ -17,6 +17,7 @@ Open http://localhost:3000. Run `npm run check` for JavaScript syntax checks.
 
 ## Editing
 
+- `src/character.mjs`: editable portrait SVG; `dist/assets/abhishek-character.svg` is the standalone 800 × 1000 export.
 - `src/journey.mjs`: homepage scenes, original SVG illustration and gallery markup.
 - `src/journey.css`: cinematic layout, responsive rules and reduced-motion fallback.
 - `src/journey.js`: scene progress, gallery, project dialog, opt-in ambient audio and clipboard feedback.
@@ -34,7 +35,7 @@ System reduced-motion preference switches the fixed scenes into a normal documen
 
 ## Content
 
-Facts and reported outcomes come from the supplied résumé. The six stories include separate work streams at Aivana. Clinical metrics describe a pilot; preauthorization describes a prototype. Narrative framing and takeaways are editorial interpretations. The builder is an original fictional illustration, not a portrait. Project diagrams are original explanatory reconstructions, not product screenshots.
+Facts and reported outcomes come from the supplied résumé. The six stories include separate work streams at Aivana. Clinical metrics describe a pilot; preauthorization describes a prototype. Narrative framing and takeaways are editorial interpretations. The builder is an original stylised SVG portrait based on Abhishek’s supplied photo, including his dark mustache, upward-styled hair, warm brown skin and slate-blue collared shirt. Project diagrams are original explanatory reconstructions, not product screenshots.
 
 ## Verification
 
